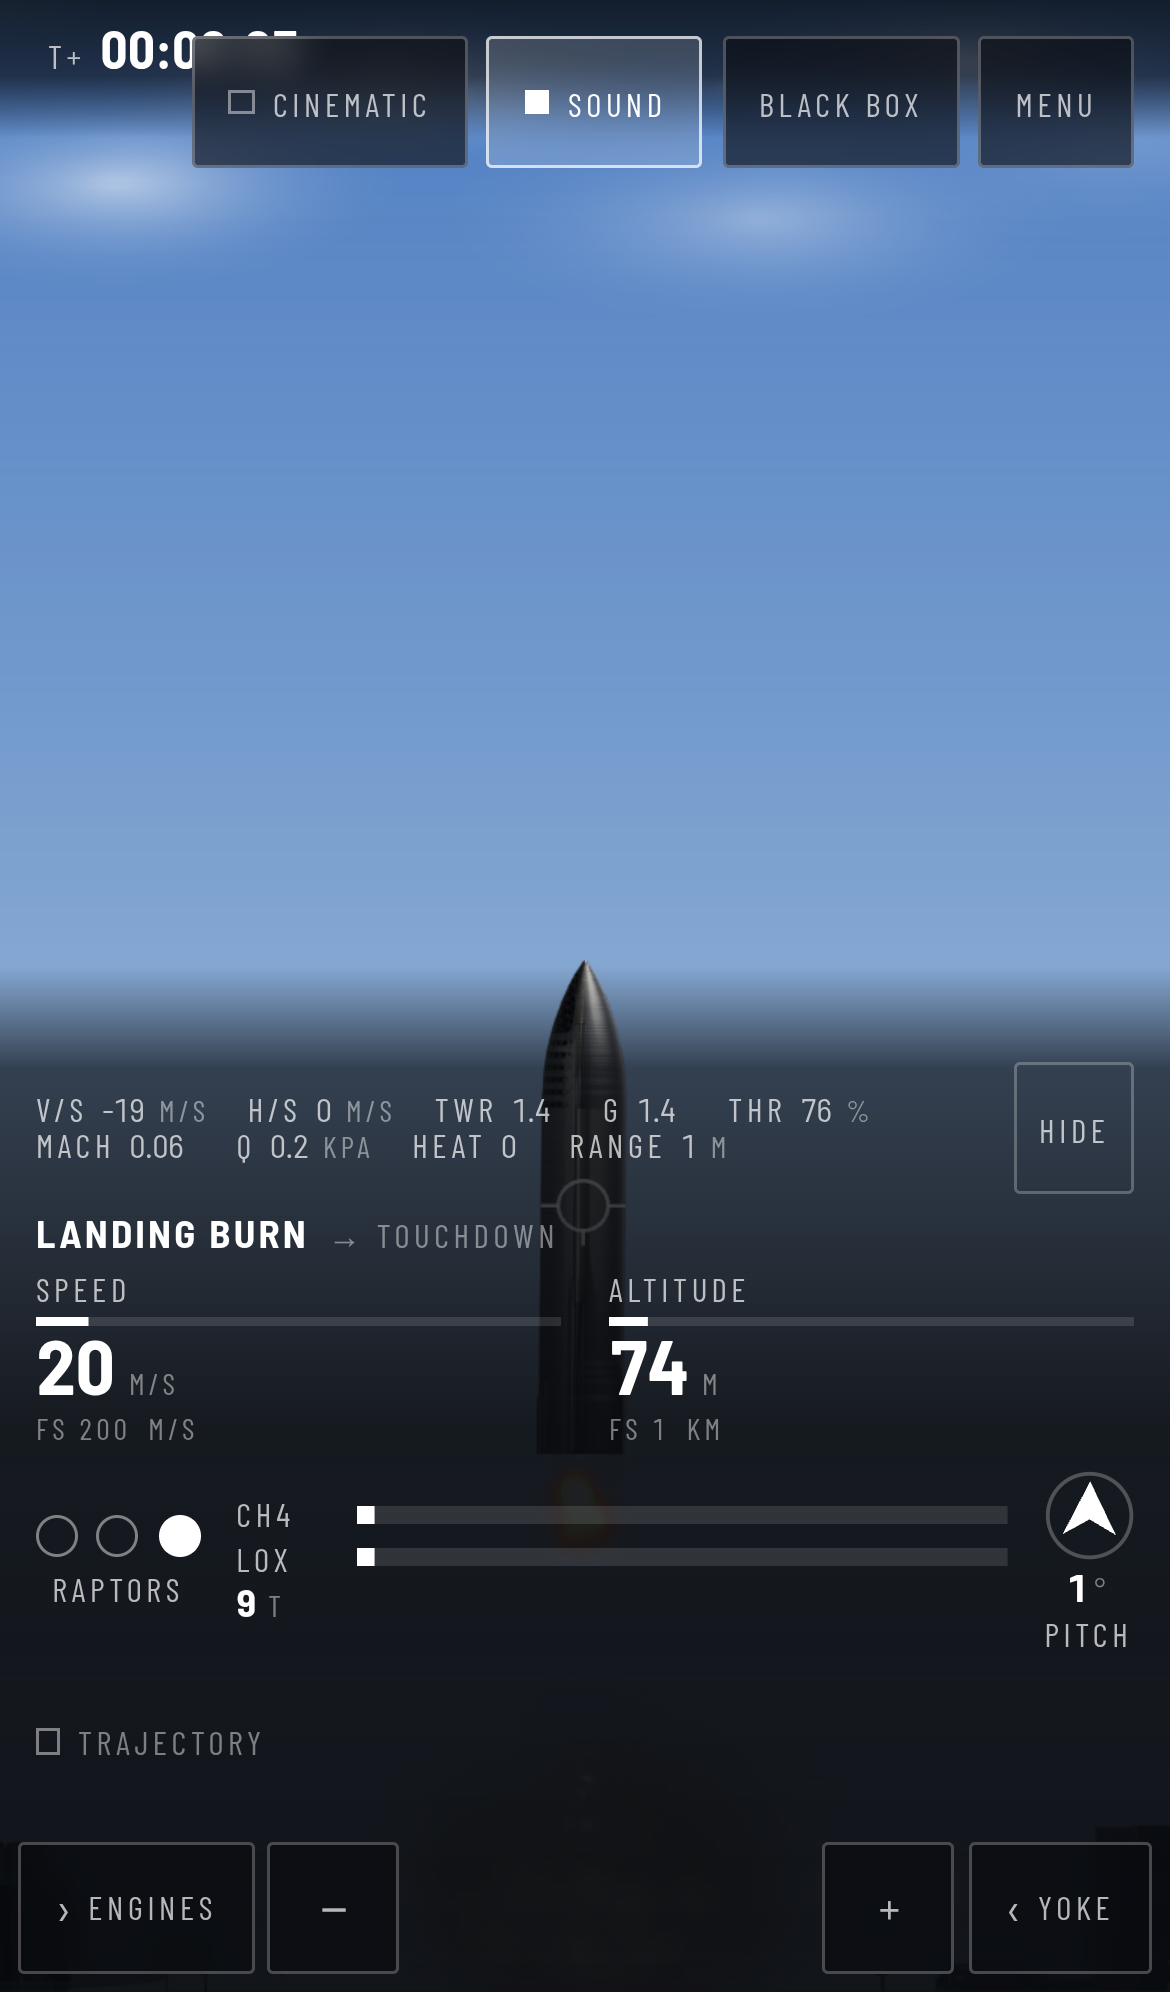
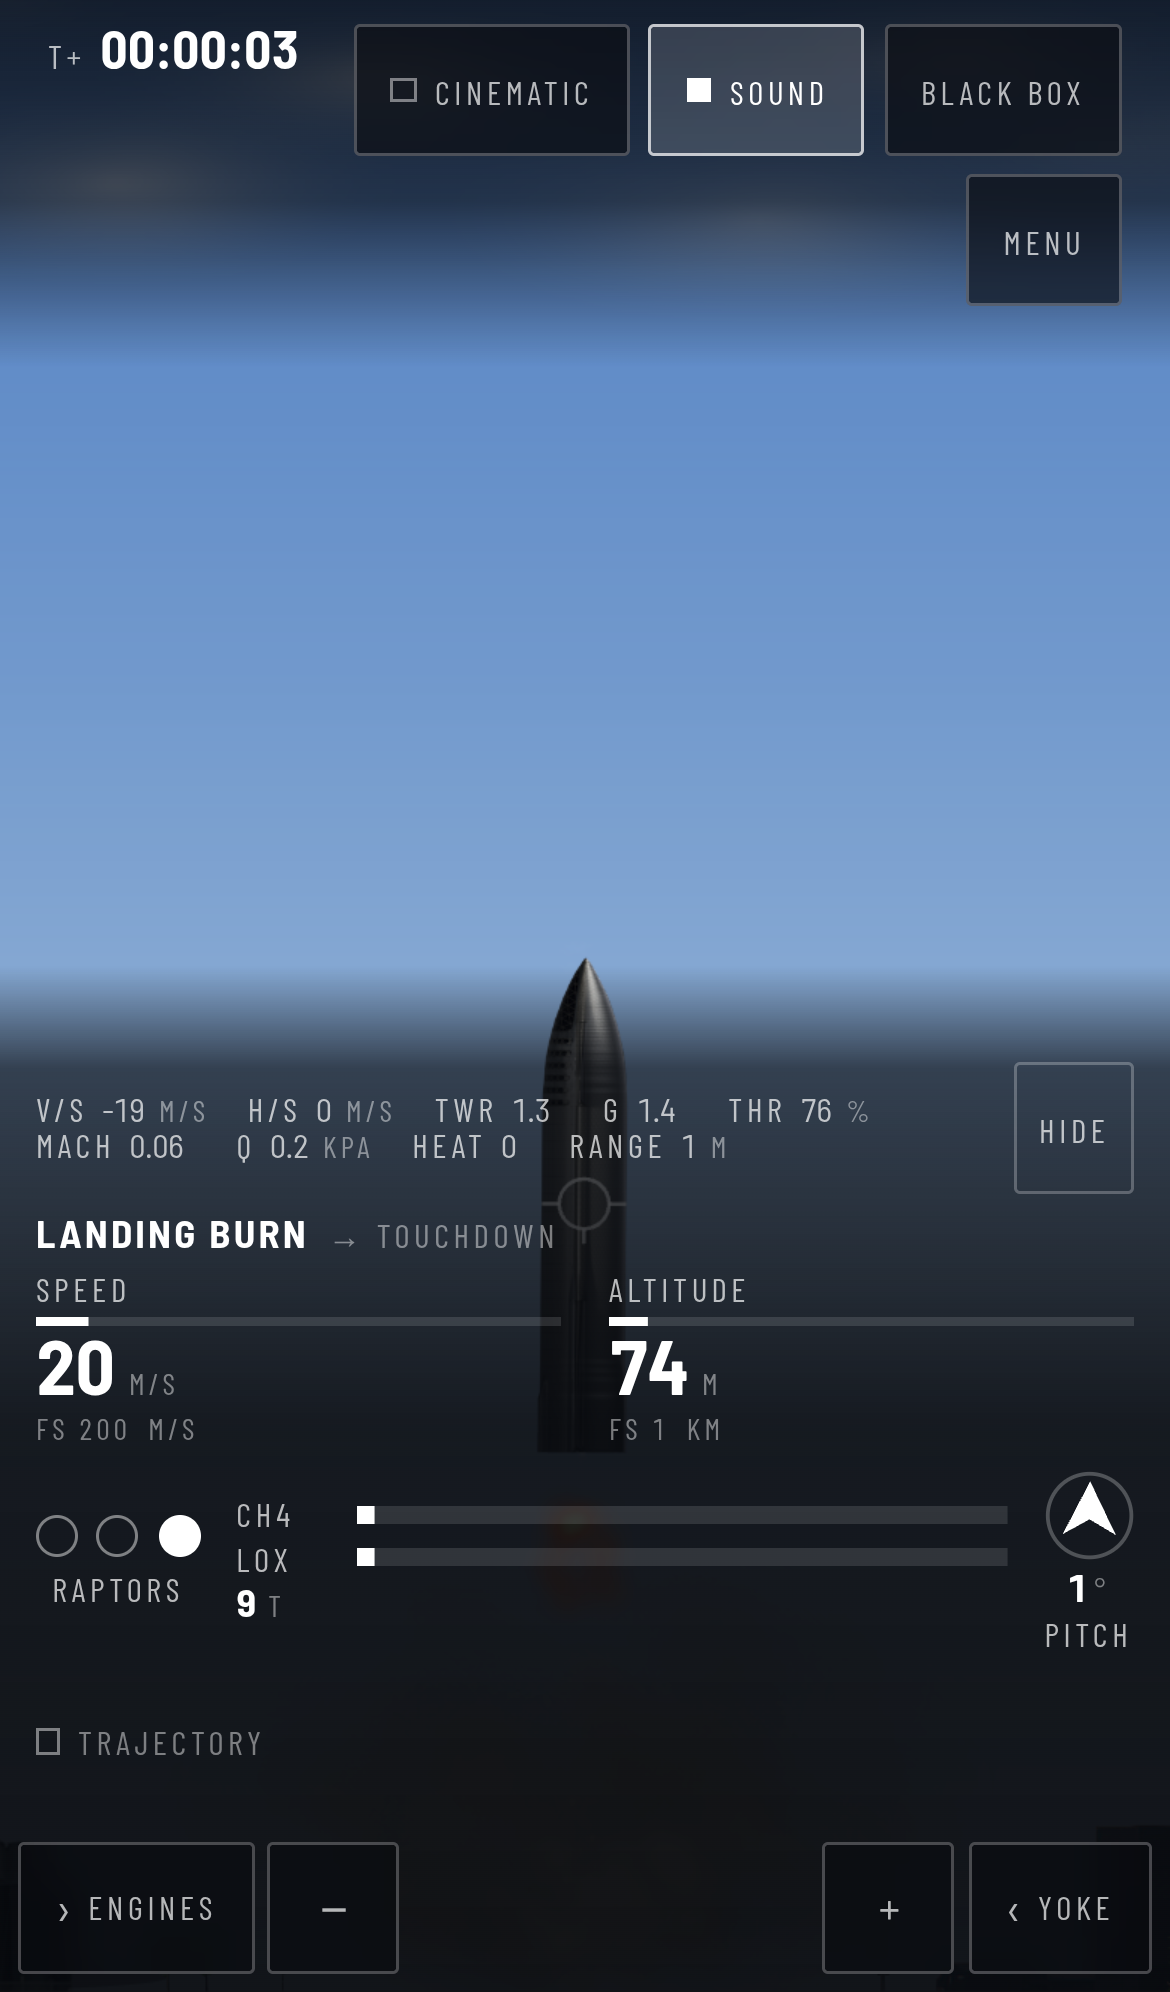
M12.7: ship
Six images regenerated. The first attempt is why the screenshot spec now
dismisses the first-flight hint: every Playwright context is a profile that has
never been here, so M12.6's onboarding card landed across the middle of the
README's headline image, over the vehicle.

README carries the M12 surfaces — the debrief, the black box's markers and
shared cursor and ghost and export, the editor's wind and local hour, the camera
modes, the phone's separate instrument and its haptics, the sound level, Restore
Defaults, the hint. Its three counts were stale and are now measured: 1585 unit
tests, 429 browser tests, 222.5 kB first-load JS. CLAUDE.md's CI caveat said five
@mobile-only tests where there are seven, and now also records the four skips
M12.6 introduced by design.

Re-measured rather than assumed: the step costs 0.0068 ms against a 1 ms budget
at 240 Hz; first-load 222.5 kB of 250; fonts 32.7 kB of 80; audio 0 kB.

Gate on all five projects: lint, build, 1585 unit tests, coverage floors, the
subpath deploy shape, and the browser suite at two workers — 418 passed, 0
failed.

Claude-Session: https://claude.ai/code/session_01JP48cmHFdD3NpambUHX27n

Changed region(s): [[0.0, 0.0, 1.0, 0.1867]]

diff --git a/v2/tests/e2e/screenshot.spec.ts b/v2/tests/e2e/screenshot.spec.ts
@@ -28,6 +28,24 @@ import { byTestId, readoutValueTestId } from '../../src/ui/testids';
  * has left it. Waiting for the descent to pass 90 m puts it in the middle of
  * the shot with an engine lit and StarBase behind.
  */
+/**
+ * Put the first-flight hint away before the shutter (M12.7).
+ *
+ * Every Playwright context is a profile that has never been here, so M12.6's
+ * hint is up in every capture — and the first regeneration after it landed put
+ * a two-line onboarding card across the middle of the README's headline image,
+ * over the vehicle. It is the right thing to show a new player and the wrong
+ * thing to show in a photograph of the simulator.
+ *
+ * Dismissed through its own button rather than by clicking the world, because a
+ * click on the world is a gesture the app acts on and these images are supposed
+ * to be of a flight nobody has touched.
+ */
+async function withoutTheHint(page: import('@playwright/test').Page) {
+  const dismiss = page.locator(byTestId('first-flight-dismiss'));
+  if ((await dismiss.count()) > 0 && (await dismiss.isVisible())) await dismiss.click();
+}
+
 async function onFinalApproach(page: import('@playwright/test').Page) {
   const altitude = page.locator(byTestId(readoutValueTestId('altitude')));
   await expect
@@ -46,6 +64,7 @@ test('capture desktop @screenshot', async ({ page }) => {
 
   await page.setViewportSize({ width: 1280, height: 720 });
   await page.goto('/', { waitUntil: 'load' });
+  await withoutTheHint(page);
   await onFinalApproach(page);
 
   await page.screenshot({
@@ -57,6 +76,7 @@ test('capture phone @screenshot @mobile @mobile-only @portrait-only', async ({ p
   test.skip(!process.env['CAPTURE_SCREENSHOT'], 'set CAPTURE_SCREENSHOT=1 to write the image');
 
   await page.goto('/', { waitUntil: 'load' });
+  await withoutTheHint(page);
   await onFinalApproach(page);
 
   await page.screenshot({

diff --git a/README.md b/README.md
@@ -8,7 +8,8 @@ autopilot do it.
 Originally written in 2021 as a first project. This is v2: that flight model extracted
 line by line, locked behind golden trajectory fixtures, and only then taken where the
 2021 one could not go — real gravity, the full standard atmosphere, a Raptor whose thrust
-rises as the air thins, and a centre of mass that moves as the tanks drain.
+rises as the air thins, and a centre of mass that moves as the tanks drain — which the
+aerodynamic damping is measured about, rather than about the middle of the hull.
 
 It works on a phone, and not by shrinking: the dials become digits and ticks, the
 event timeline collapses to what just happened and what is next, and the flight
@@ -69,11 +70,22 @@ yours — full tanks, engines off.
 - **Or don't**: `Lift-Off`, `Boost-Back`, `Att-Hold` and `Auto-Land` will do it for you.
   `Auto-Land` from any altitude is worth watching at least once.
 - **Menu** → scenario presets, from a booster separation at 70 km to a landing burn at
-  200 m, plus two orbital ones. Or type your own numbers into the six fields.
-- **Black Box** → nine plots of the flight you just flew.
+  200 m, plus two orbital ones. Or type your own numbers into the eight fields — which
+  now include a headwind and the hour of the day, so you can fly the same descent into a
+  10 m/s wind or land it at dusk.
+- **Black Box** → nine plots of the flight you just flew, with the mission events marked
+  on every one, a single cursor that reads all nine channels at the moment you point at,
+  your previous flight behind the current one as a ghost, and a CSV export.
+- **When a flight ends** a card says what happened and why: touchdown speeds against the
+  limits, pitch at contact, how far from the pad, peak dynamic pressure, peak heating,
+  peak g, propellant left, and when each event happened. It gets out of the way on the
+  next thing you press.
 - **Keyboard**: WASD or the arrow keys, `Space` for all engines, `1`/`2`/`3` for one,
   `F` fins, `R` RCS, `T` attitude hold, `Backspace` boost-back, `=`/`-` zoom. The full
-  list is in the guide, and it is generated from the binding table, so it cannot drift.
+  list is in the guide, and so are the autopilot modes and every scenario — all three
+  generated from the tables the application itself runs on, so none of them can drift.
+- **Sound** is a switch and a level, both remembered, and Restore Defaults puts every
+  remembered preference back where a fresh install starts.
 
 Works offline. Install it and it keeps working with the network off — the whole thing
 is precached, including the chart library.
@@ -121,7 +133,15 @@ The parts that carry it:
   simply do not light, which is the honest thing for a game you can freestyle.
 - **Cinematic mode** hides the flight controls, leaving exactly the broadcast. It is
   the one deliberate departure: a webcast never shows a button because the viewer
-  cannot press anything, and this is a cockpit.
+  cannot press anything, and this is a cockpit. With the controls away, four camera
+  modes appear — follow, pad, chase, onboard.
+- **On a phone** the same overlay is a different instrument rather than a smaller one:
+  digits and ticks instead of dials, one line of text instead of the timeline, sheets
+  instead of rails, and the mission events reach `navigator.vibrate` unless the system
+  asks for reduced motion.
+- **It tells you what to press.** A first visit gets one line above the lower third
+  naming the first two controls, and any input at all puts it away for good — the tap
+  that clears it is the tap that starts the flight.
 
 Every number on screen still goes through a single `requestAnimationFrame`
 subscriber that diffs before it writes. The gauges and the timeline are attributes
@@ -156,12 +176,12 @@ different vehicle, and nobody would have been able to say which parts changed.
 | Globals | 355 | 0 (lint-enforced) |
 | Simulation step | frame-rate dependent | fixed 120 Hz, 5.6–12.2 µs (budget 1000) |
 | HUD | 12 Hz, 18 `getElementById` per update | 120 Hz, zero lookups, diffed writes |
-| First-load JS | ~3.5 MB, two CDNs | 215.8 kB gzip, no third-party origins |
+| First-load JS | ~3.5 MB, two CDNs | 222.5 kB gzip, no third-party origins |
 | Offline | claimed | tested — a full flight with the network off |
 | Interface | one desktop layout | three breakpoints, gated on four phone viewports |
 | Depth | ground, then nothing above 100 m | three parallax layers, camera FOV 1x–5x with altitude |
 | Sound | silent | synthesised from SimState; the atmosphere audibly runs out |
-| Physics | one gravity, one speed of sound, one air density | planet-centred gravity, the full ISA, local Mach, Raptor thrust against ambient pressure, a moving centre of mass |
+| Physics | one gravity, one speed of sound, one air density | planet-centred gravity, the full ISA, local Mach, Raptor thrust against ambient pressure, a moving centre of mass, and aerodynamic roll damping about that same axis |
 | Integrator | Euler at whatever dt the frame gave | velocity Verlet at a fixed dt, second-order and checked against Kepler |
 | Tests | 0 | 1463 unit, 355 end-to-end across five browser projects |
 
@@ -253,9 +273,9 @@ npm install
 npm run dev        # vite dev server
 npm run lint       # eslint, including the seven walls
 npm run build      # svelte-check, vite build, service worker, bundle budget
-npm run test       # vitest — 1463 tests. Needs a build: the offline suite reads dist/
+npm run test       # vitest — 1585 tests. Needs a build: the offline suite reads dist/
 npm run coverage   # the same, with enforced floors on src/core/**
-npm run test:e2e   # playwright — 355 tests across five projects, ~50 min
+npm run test:e2e   # playwright — 429 tests across five projects, ~50 min on a quiet machine
 npm run test:deploy  # the same build served from a subdirectory, as Pages does
 
 npm run gate       # all five, in that order. This is the bar for a commit.

diff --git a/docs/ROADMAP-TASKS.md b/docs/ROADMAP-TASKS.md
@@ -1027,7 +1027,7 @@ thermal coefficient, Earth rotation.
   trajectory tab, against a 44 px touch floor for the dismiss button — and four placements were
   tried and rejected before that conclusion. `hint.spec.ts` asserts the exception in both
   directions so it is a decision, not a regression.
-- [ ] **M12.7 Ship** — screenshots regenerated, `docs/` current, budget and perf re-measured, the
+- [x] **M12.7 Ship** — screenshots regenerated, `docs/` current, budget and perf re-measured, the
   full gate on all five projects.
 
 
@@ -4064,3 +4064,21 @@ reason. `core/` is unchanged but for comments; the seven digests have not moved 
   audit table were from a scratch harness rather than from the goldens. They are the goldens' own
   now. Gate: lint, build, 1585 unit tests, coverage 99.22% branch, and the full browser suite at two
   workers — 418 passed, 0 failed.
+- 2026-09-03 · M12.7 · Ship. Six images regenerated, and the first regeneration is why the
+  screenshot spec now dismisses the first-flight hint: every Playwright context is a profile that
+  has never been here, so M12.6's card landed across the middle of the README's headline image,
+  over the vehicle. It is the right thing to show a new player and the wrong thing to show in a
+  photograph of the simulator. The depth and re-entry captures were already clean — they open the
+  menu, and opening the menu is a gesture that dismisses it.
+  README carries the M12 surfaces now: the debrief card, the black box's markers, shared cursor,
+  ghost and CSV, the editor's wind and local hour, the camera modes, the phone's separate
+  instrument and its haptics, the level beside the switch, Restore Defaults, and the hint. Its
+  three counts were stale and are measured: 1 585 unit tests, 429 browser tests, 222.5 kB of
+  first-load JS against the 250 kB budget. CLAUDE.md's CI caveat was stale too — seven
+  `@mobile-only` tests, not five — and gains the four M12.6 skips, because a skip that nothing
+  asserts is indistinguishable from a test that stopped running.
+  MEASURED RATHER THAN ASSUMED: the step costs 0.0068 ms against a 1 ms budget at 240 Hz, which is
+  0.7% of it; first-load JS is 222.5 kB of 250; fonts 32.7 kB of 80; audio 0 kB, still synthesised.
+  Gate, all five projects: lint, build, 1 585 unit tests, coverage 99.22% branch and 99.64% line,
+  the subpath deploy shape, and the browser suite at two workers — 418 passed, 0 failed, 11
+  skipped, 1.2 h on a busy container.

diff --git a/CLAUDE.md b/CLAUDE.md
@@ -140,13 +140,20 @@ the budget and both browser suites never ran at all, on any commit, for eleven m
 Fixed at M11.9, along with the same ordering in `deploy.yml` and in `npm run gate`.
 
 WHAT CI STILL DOES NOT COVER, stated so a green tick is not read as more than it is. It
-runs one of the five browser projects, so the five `@mobile-only` tests — the phone's sheet
+runs one of the five browser projects, so the seven `@mobile-only` tests — the phone's sheet
 layout and its focus trap, its digits-and-ticks readouts, its one-line timeline, its folded
-map — run in no CI project at all. And it does not run the four phone viewports, because the browser
-measurements in them are timings, and a shared two-core runner is not an idle machine: the
-same specs failed twice at M11.6 on nothing but CPU contention. `npm run gate` on a quiet
-machine, run by a person, is still the bar for a commit; the browser half of it is still 50
-minutes.
+map, and the phone screenshot — run in no CI project at all. And it does not run the four phone
+viewports, because the browser measurements in them are timings, and a shared two-core runner
+is not an idle machine: the same specs failed twice at M11.6 on nothing but CPU contention.
+`npm run gate` on a quiet machine, run by a person, is still the bar for a commit; the browser
+half of it is still 50 minutes, and closer to 70 on a busy container.
+
+AND FOUR MORE ARE SKIPPED BY DESIGN since M12.6: the first-flight hint is not shown on a
+landscape phone, so its two specs skip on the two landscape projects. That is a layout
+decision with a measurement behind it — see `App.svelte`'s `HINT_FITS` — and
+`hint.spec.ts` asserts the exception in both directions rather than leaving it as an
+absence. A skip that nothing asserts is indistinguishable from a test that stopped
+running.
 
 ## What must never change (the soul)
 
